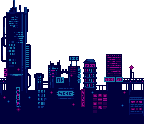
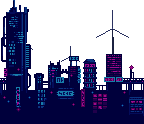
Seba jako technik turbin wiatrowych (wg zdjęcia referencyjnego)
- Sprite: biały kask wspinaczkowy z czołówką (twarz widoczna), kurtka hi-vis z 2 pasami odblaskowymi,
  długie ciemne spodnie robocze (uda → materiał), czarne buty, karabińczyk uprzęży
- Portret HUD: kask + czołówka, twarz z zarostem, kołnierz hi-vis z pasem odblaskowym
- Tło: sylwetki turbin wiatrowych na dalekiej warstwie (tylko na niebie)
- AssetLoader: wersja manifestu w query stringu (cache-busting przy podmianie PNG)

Claude-Session: https://claude.ai/code/session_011z5ybErgDBYHiNMhFXNnSb

diff --git a/dist/game.js b/dist/game.js
@@ -998,6 +998,7 @@
 
   // src/assets/manifest.generated.ts
   var MANIFEST = {
+    "version": "mu0x7cbp",
     "sheets": {
       "seba": {
         "file": "assets/sprites/player/seba.png",
@@ -1541,14 +1542,15 @@
     const total = sheetEntries.length + imageEntries.length + 1;
     let done = 0;
     const tick = () => onProgress?.(++done, total);
+    const url = (file) => `${file}?v=${MANIFEST.version}`;
     await Promise.all([
       ...sheetEntries.map(async ([name, def]) => {
-        const img = await Assets.loadImage(`sheet:${name}`, def.file);
+        const img = await Assets.loadImage(`sheet:${name}`, url(def.file));
         Sheets.set(name, new SpriteSheet(img, def));
         tick();
       }),
       ...imageEntries.map(async ([name, def]) => {
-        await Assets.loadImage(name, def.file);
+        await Assets.loadImage(name, url(def.file));
         tick();
       }),
       loadFont().then(tick)

diff --git a/src/assets/AssetLoader.ts b/src/assets/AssetLoader.ts
@@ -38,13 +38,15 @@ export async function loadAllAssets(onProgress?: (done: number, total: number) =
   let done = 0;
   const tick = () => onProgress?.(++done, total);
 
+  // wersja z manifestu w query stringu – podmiana PNG nie utknie w cache przeglądarki
+  const url = (file: string) => `${file}?v=${MANIFEST.version}`;
   await Promise.all([
     ...sheetEntries.map(async ([name, def]) => {
-      const img = await Assets.loadImage(`sheet:${name}`, def.file);
+      const img = await Assets.loadImage(`sheet:${name}`, url(def.file));
       Sheets.set(name, new SpriteSheet(img, def));
       tick();
     }),
-    ...imageEntries.map(async ([name, def]) => { await Assets.loadImage(name, def.file); tick(); }),
+    ...imageEntries.map(async ([name, def]) => { await Assets.loadImage(name, url(def.file)); tick(); }),
     loadFont().then(tick),
   ]);
 }

diff --git a/src/assets/manifest.generated.ts b/src/assets/manifest.generated.ts
@@ -1,5 +1,6 @@
 /* WYGENEROWANE przez tools/build-assets.mjs – nie edytuj ręcznie. */
 export const MANIFEST = {
+  "version": "mu0x7cbp",
   "sheets": {
     "seba": {
       "file": "assets/sprites/player/seba.png",

diff --git a/assets/CREDITS.md b/assets/CREDITS.md
@@ -10,8 +10,10 @@ ale kredytujemy z wdzięczności.
 
 ## Modyfikacje (tools/build-assets.mjs)
 
-- **Seba** = postać z Warped City po *palette swapie* (kurtka i skóra → niebieski kombinezon z rękawicami, buty) oraz
-  proceduralnym **hełmie**: piksele fryzury → zamknięty hełm, twarz → wizjer ze świecącą szczeliną (`paintHelmet` w pipeline).
+- **Seba** = postać z Warped City przerobiona proceduralnie na technika turbin wiatrowych (`paintHelmet` + `SEBA_PALETTE`
+  w pipeline): fryzura → biały kask wspinaczkowy z czołówką, kurtka → hi-vis limonka z pasami odblaskowymi,
+  uda → długie ciemne spodnie robocze, buty czarne, detal → pomarańczowy karabińczyk uprzęży. Twarz pozostaje widoczna.
+- Na dalekiej warstwie tła dorysowane sylwetki turbin wiatrowych (tylko na niebie, za miastem).
 - **Biegacz („blaszak")** = klatki biegu tej samej postaci w palecie metalu z czerwonym wizjerem.
 - **Makita DIY** (wkrętarka z tarczą), **piła** (pocisk wroga), **muzzle flash**, **portret**, **tileset industrialny 16×16**
   (płyty pancerne z nitami, kraty pomostowe, słupy, rury) oraz **warstwa rusztowań** – narysowane proceduralnie w pipeline,
